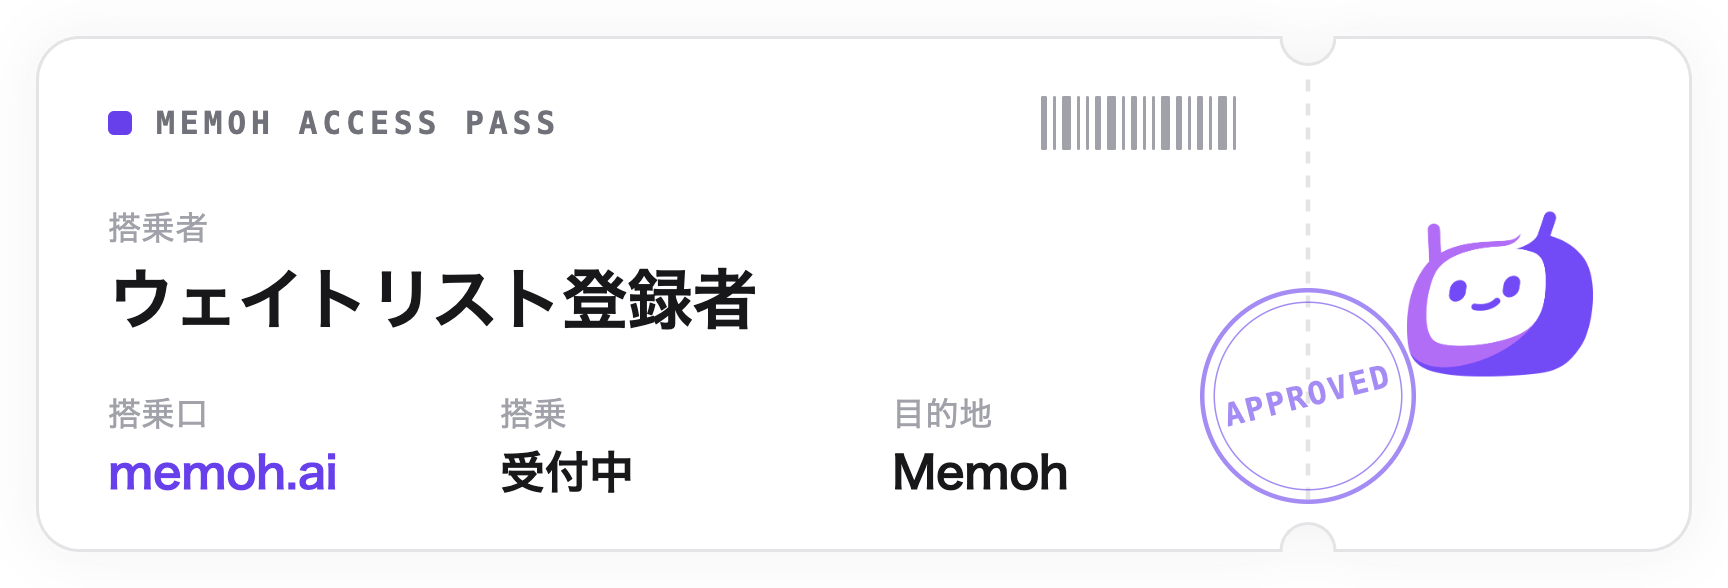
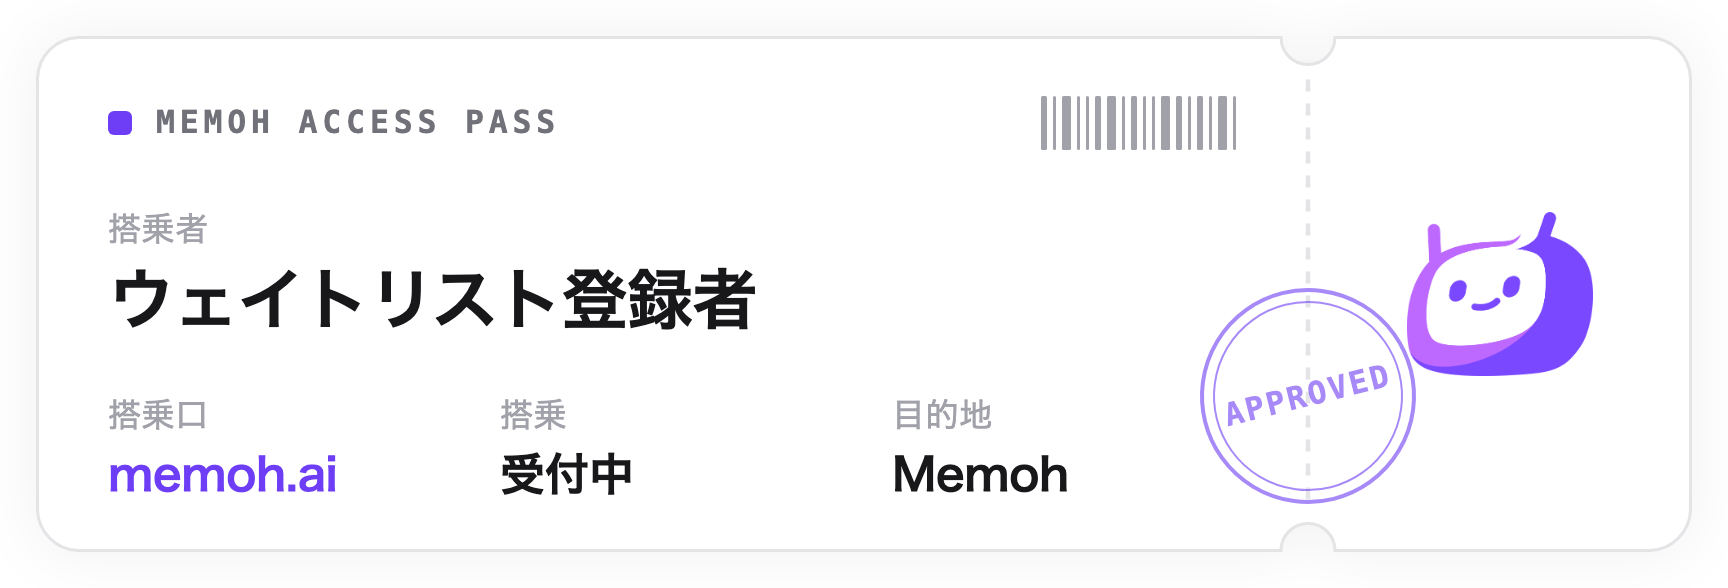
refactor(email): 通行证卡片图改为原地覆盖，不再新增 v2 文件名
新图浅色模式下与原图一致，覆盖原文件即可生效，无需改 Cloud 模板，
已发出的邮件再打开也会显示透明版。

Refs: LAND-2

diff --git a/email-src/waitlist-pass/README.md b/email-src/waitlist-pass/README.md
@@ -2,7 +2,7 @@
 
 `card.html` 是 `public/email/waitlist-pass-*.png` 的源文件，`render.mjs` 负责出图。这个目录不在 `public/` 下，不会随站点部署。
 
-- 邮件模板在 Memoh Cloud 后台维护（`iam.waitlist.approved.email`），按 locale 引用 `https://memoh.ai/email/waitlist-pass-<版本>-<locale>.png`，显示尺寸 576×196。
-- 改卡片：编辑 `card.html`，在浏览器打开 `card.html?l=zh-CN&stamp=1` 预览；然后把 `render.mjs` 里的 `version` 加一，运行 `node email-src/waitlist-pass/render.mjs`。合并部署后，再到后台把模板改为引用新文件名。
+- 邮件模板在 Memoh Cloud 后台维护（`iam.waitlist.approved.email`），按 locale 引用 `https://memoh.ai/email/waitlist-pass-<locale>.png`，显示尺寸 576×196。
+- 改卡片：编辑 `card.html`，在浏览器打开 `card.html?l=zh-CN&stamp=1` 预览；然后运行 `node email-src/waitlist-pass/render.mjs`，原地覆盖 `public/email/` 下的图。文件名不变，模板不用改，已发出的邮件再打开也会显示新图；memoh.ai 对图片的缓存是 `max-age=14400`（4 小时），邮件客户端的图片代理可能更久。
 - 已发布的图都带 `stamp=1`（压在撕口上的 APPROVED 章）。不带章的分支是早期对比用的。
-- 旧版本的图不要删，已经发出去的邮件还在引用。
+- 不要改文件名或删除这些图：模板和已经发出的邮件都按这个地址引用。
